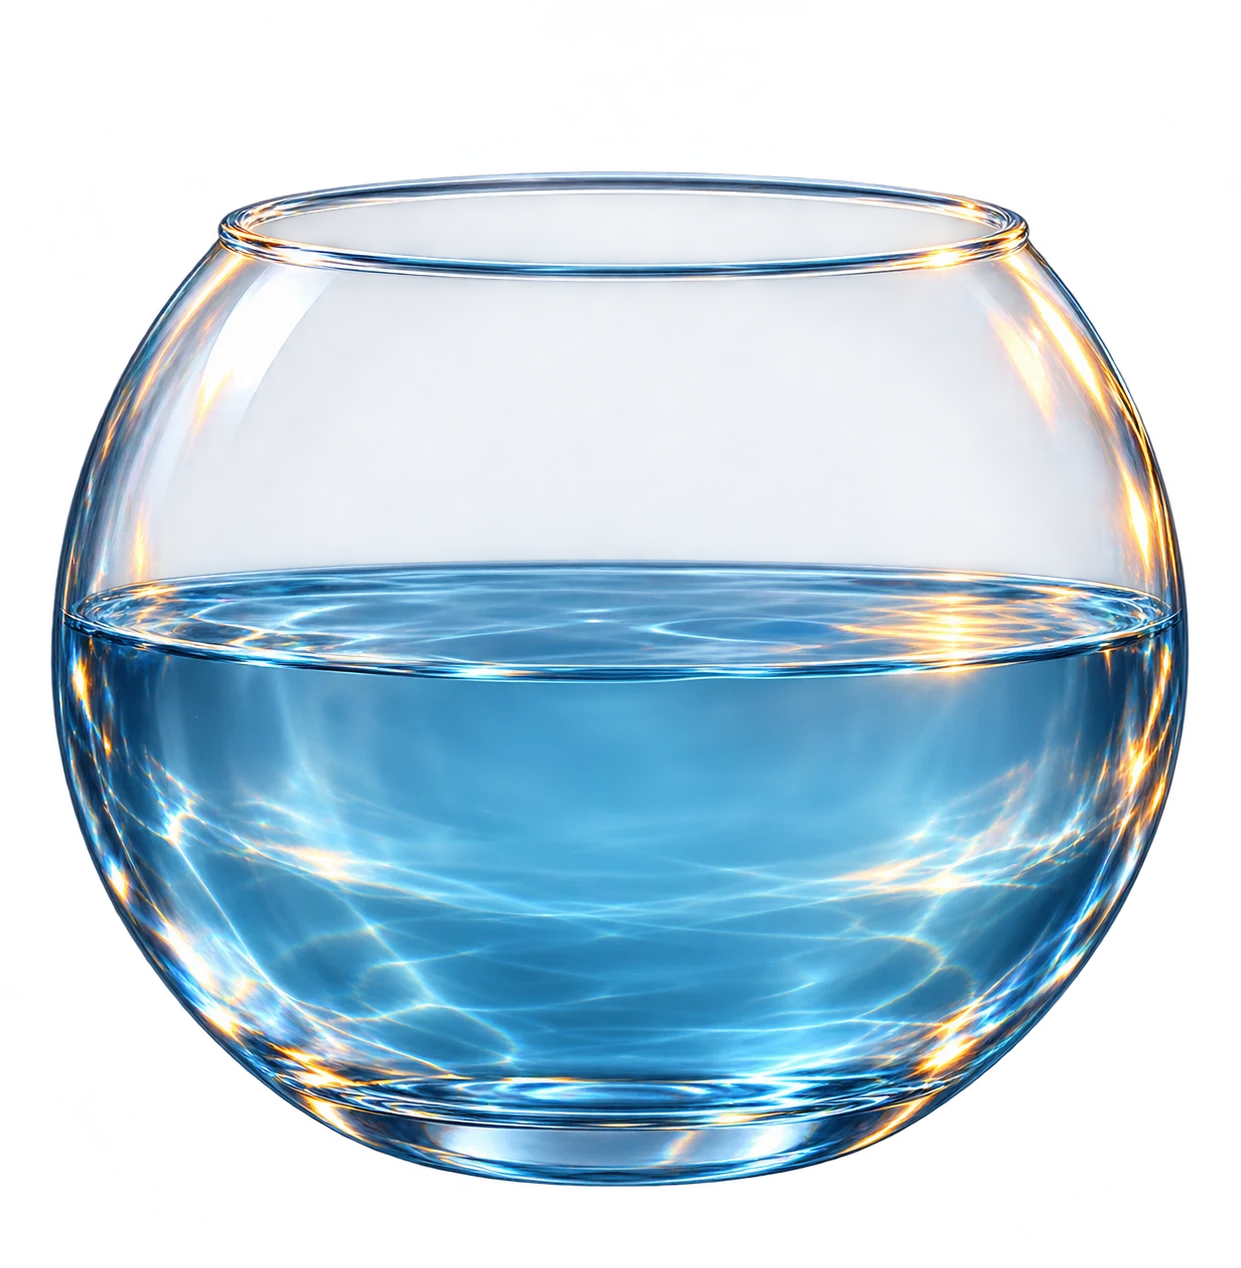
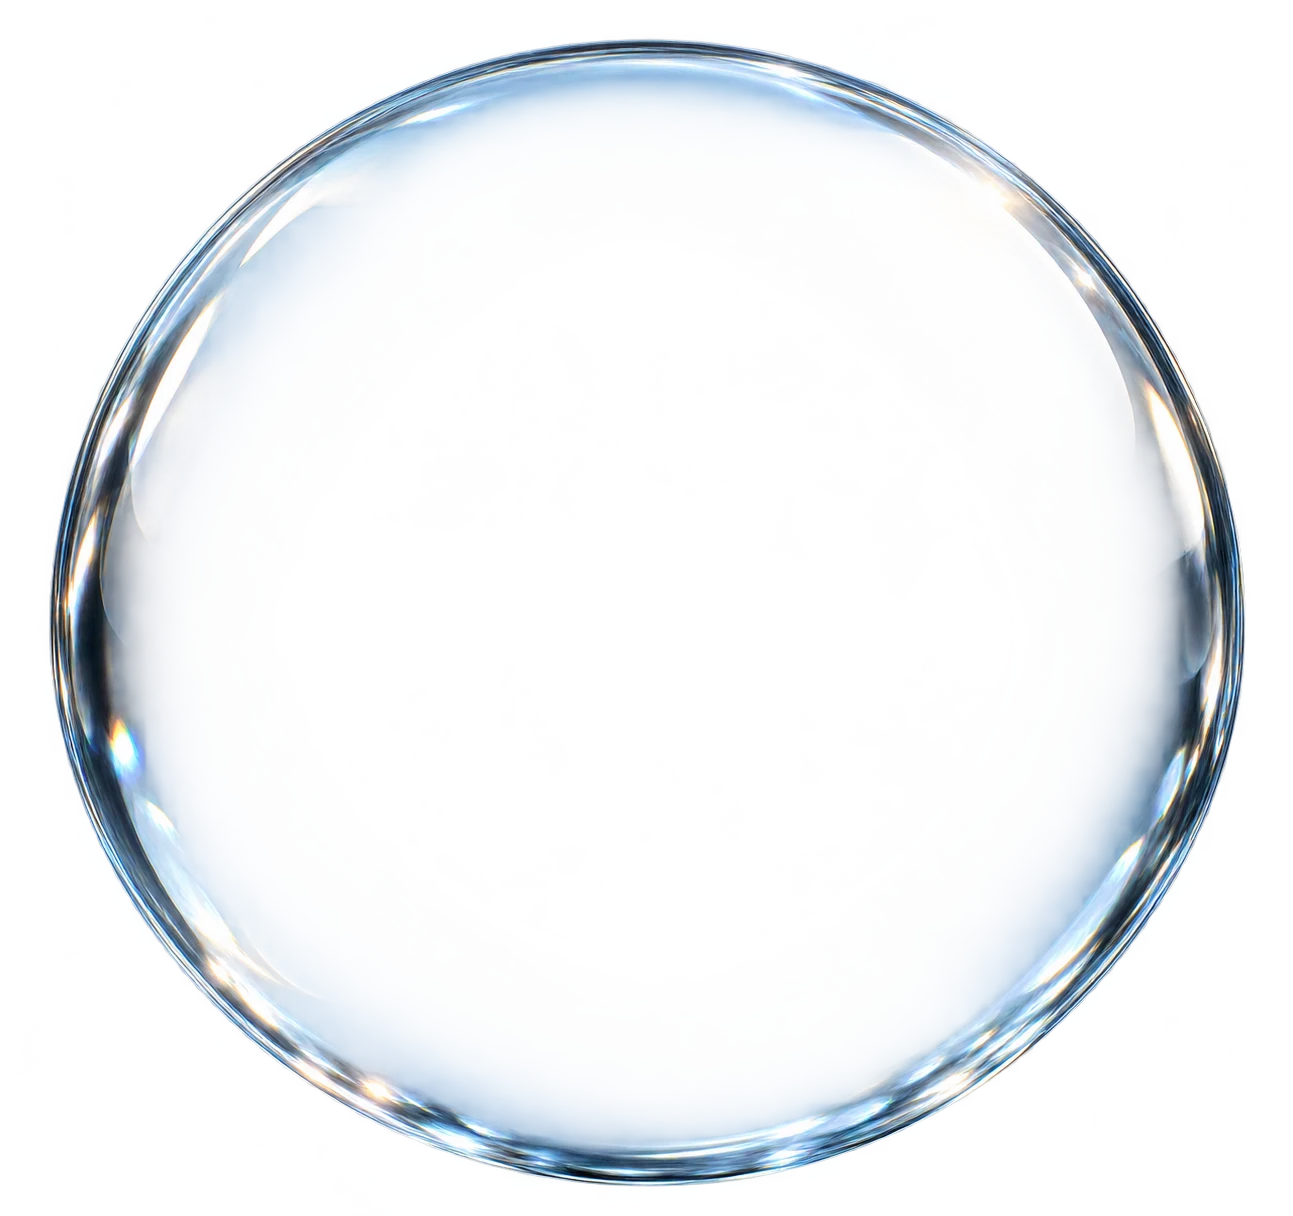
Refine Hydros orb and Today layout

diff --git a/src/hydros/screens/TodayPage.tsx b/src/hydros/screens/TodayPage.tsx
@@ -3,11 +3,10 @@ import type { Nav } from '../app/App';
 import { useDrinks, useSettings, useTraining } from '../app/state';
 import { dateLabel, greeting, sameDay, totalOz } from '../core/drinks';
 import { rangeForTraining } from '../data/training';
-import { DropIcon, GearIcon, MoonIcon, PlusIcon, SunIcon, WaveIcon } from '../app/icons';
-import { Brand } from '../app/ui';
+import { DropIcon, GearIcon, MoonIcon, SunIcon, WaveIcon } from '../app/icons';
+import { displayName } from '../../data/storage/preferences';
 import orbImage from '../../assets/images/scenes/hydros-orb.webp';
-
-const quote = 'The health of the body is the foundation of the good life.';
+import waterTexture from '../../assets/images/scenes/hydros-water.webp';
 
 export default function TodayPage({ nav }: { nav: Nav }) {
   const drinks = useDrinks() ?? [];
@@ -20,18 +19,18 @@ export default function TodayPage({ nav }: { nav: Nav }) {
   const goal = training?.runDay ? settings.goalOz + range.extra : settings.goalOz;
   const percent = Math.min(100, Math.round((amount / goal) * 100));
   const rangeText = hasData ? `${range.min} – ${range.max} oz` : 'Set amount';
+  const name = displayName();
   return (
     <div className="hydros-home">
       <section className="hydros-hero hydros-hero--today">
-        <div className="hydros-home-head"><Brand light /><button type="button" className="hydros-settings-button" aria-label="Settings" onClick={() => nav.go({ name: 'settings' })}><GearIcon size={21} /></button></div>
-        <div className="hydros-hero__words"><p>{greeting()}</p><h1>Drink with measure.</h1><span>{dateLabel()}</span></div>
-        <div className="hydros-orb" aria-label={hasData ? `${amount} ounces of ${range.min} to ${range.max} ounces range` : 'Set amount'}><img className="hydros-orb__image" src={orbImage} alt="" /><div className="hydros-orb__water" style={{ height: `${Math.max(13, percent)}%` }} /><strong>{amount}<small> oz</small></strong><span>{hasData ? (training?.runDay ? 'run day range' : 'of your usual range') : 'Set amount'}</span><em>{rangeText}</em></div>
+        <div className="hydros-home-head"><button type="button" className="hydros-settings-button" aria-label="Settings" onClick={() => nav.go({ name: 'settings' })}><GearIcon size={21} /></button></div>
+        <div className="hydros-hero__words"><p>{greeting()}{name ? ',' : ''}{name ? <strong>{name}</strong> : null}</p><span>{dateLabel()}</span></div>
+        <div className="hydros-orb" aria-label={hasData ? `${amount} ounces of ${range.min} to ${range.max} ounces range` : 'Set amount'}><div className="hydros-orb__water" style={{ height: `${percent}%` }}><img src={waterTexture} alt="" /></div><img className="hydros-orb__image" src={orbImage} alt="" /><strong>{amount}<small> oz</small></strong><span>{hasData ? (training?.runDay ? 'run day range' : 'of your usual range') : 'Set amount'}</span><em>{rangeText}</em></div>
       </section>
       <section className="hydros-content">
-        <div className="hydros-section-title"><h2>Today’s rhythm</h2><button type="button" onClick={() => nav.go({ name: 'add' })} aria-label="Add drink"><PlusIcon size={20} /></button></div>
+        <div className="hydros-section-title"><h2>Today’s rhythm</h2><button type="button" onClick={() => nav.go({ name: 'add' })} aria-label="Add drink">›</button></div>
         <div className="rhythm-card"><Rhythm icon={<SunIcon size={21} />} label="Morning" active={today.some((drink) => new Date(drink.loggedAt).getHours() < 12)} /><Rhythm icon={<WaveIcon size={22} />} label="Afternoon" active={today.some((drink) => { const hour = new Date(drink.loggedAt).getHours(); return hour >= 12 && hour < 18; })} /><Rhythm icon={<MoonIcon size={21} />} label="Evening" active={today.some((drink) => new Date(drink.loggedAt).getHours() >= 18)} /></div>
         <div className="hydros-note"><DropIcon size={24} /><span>{!hasData ? 'Set amount.' : training?.runDay ? `Run day · ${range.extra} oz added to your range.` : amount < range.min ? 'A little below your usual range.' : amount > range.max ? 'Above your usual range.' : 'Within your usual range.'}</span></div>
-        <blockquote className="hydros-quote">“{quote}”<cite>— Galen</cite></blockquote>
       </section>
     </div>
   );

diff --git a/src/hydros/styles/hydros.css b/src/hydros/styles/hydros.css
@@ -54,20 +54,21 @@ body:has(.hydros-shell) { min-height: 100dvh; }
 .hydros-brand__by { color: var(--text-soft); font-size: .75rem; }
 .hydros-brand--light .hydros-brand__by { color: rgba(244,252,255,.75); }
 
-.hydros-hero { position: relative; min-height: 590px; padding: calc(env(safe-area-inset-top) + 24px) 28px 38px; color: #f4fbfc; isolation: isolate; overflow: hidden; }
+.hydros-hero { position: relative; min-height: 520px; padding: calc(env(safe-area-inset-top) + 24px) 28px 24px; color: #f4fbfc; isolation: isolate; overflow: hidden; }
 .hydros-hero::before { content: ''; position: absolute; inset: 0; z-index: -2; background: linear-gradient(180deg, rgba(3,17,24,.35), rgba(3,17,24,.12) 40%, #061219 100%), url('../../assets/images/scenes/hydros-sunset.webp') center 35% / cover; transform: scale(1.03); }
-.hydros-hero::after { content: ''; position: absolute; inset: 0; z-index: -1; background: radial-gradient(circle at 50% 56%, rgba(71, 191, 227, .13), transparent 32%); pointer-events: none; }
+.hydros-hero::after { content: ''; position: absolute; inset: 0; z-index: -1; pointer-events: none; }
 .hydros-hero .hydros-brand { position: relative; }
-.hydros-home-head { display: flex; align-items: center; justify-content: space-between; }
+.hydros-home-head { position: absolute; top: calc(env(safe-area-inset-top) + 24px); right: 28px; z-index: 2; }
 .hydros-settings-button { display: grid; place-items: center; width: 42px; height: 42px; border: 1px solid rgba(220, 249, 255, .28); border-radius: 50%; background: rgba(3, 28, 39, .48); color: #dcf9ff; }
-.hydros-hero__words { margin-top: 58px; }
-.hydros-hero__words p { margin: 0; font-size: 1.12rem; color: rgba(242,250,252,.83); }
-.hydros-hero__words h1 { margin: 5px 0 3px; font: 400 2.15rem/1.03 var(--serif); letter-spacing: .01em; }
+.hydros-hero__words { margin-top: 72px; }
+.hydros-hero__words p { display: block; margin: 0; font-size: 1.12rem; line-height: 1.14; color: rgba(242,250,252,.83); }
+.hydros-hero__words p strong { display: block; color: #f4fbfc; font-size: 1.08em; font-weight: 400; }
 .hydros-hero__words span { color: rgba(231,247,251,.72); font-size: .84rem; }
-.hydros-orb { width: min(72vw, 320px); aspect-ratio: 1; position: absolute; left: 50%; bottom: 26px; transform: translateX(-50%); display: flex; flex-direction: column; align-items: center; justify-content: center; border: 1px solid rgba(195,242,255,.8); border-radius: 50%; overflow: hidden; background: rgba(4,48,67,.43); box-shadow: inset 0 0 24px rgba(203,247,255,.37), 0 15px 38px rgba(0,0,0,.36); }
-.hydros-orb__image { position: absolute; inset: 0; width: 100%; height: 100%; object-fit: cover; }
-.hydros-orb__water { position: absolute; bottom: 0; left: -5%; right: -5%; background: linear-gradient(180deg, rgba(44,186,230,.22), rgba(5,72,100,.55)); border-radius: 50% 50% 0 0 / 7% 7% 0 0; transition: height .25s ease; }
-.hydros-orb strong, .hydros-orb span, .hydros-orb em { position: relative; z-index: 1; }
+.hydros-orb { width: min(68vw, 276px); aspect-ratio: 1; position: absolute; left: 50%; bottom: 18px; transform: translateX(-50%); display: flex; flex-direction: column; align-items: center; justify-content: center; border-radius: 50%; overflow: hidden; background: transparent; box-shadow: 0 15px 38px rgba(0,0,0,.36); }
+.hydros-orb__image { position: absolute; z-index: 2; inset: 0; width: 100%; height: 100%; object-fit: cover; pointer-events: none; }
+.hydros-orb__water { position: absolute; z-index: 1; right: 0; bottom: 0; left: 0; overflow: hidden; border-radius: 0 0 50% 50% / 0 0 8% 8%; transition: height .25s ease; }
+.hydros-orb__water img { display: block; width: 100%; height: auto; min-height: 100%; object-fit: cover; object-position: bottom; }
+.hydros-orb strong, .hydros-orb span, .hydros-orb em { position: relative; z-index: 3; }
 .hydros-orb strong { font: 400 3.3rem/1 var(--serif); text-shadow: 0 2px 6px rgba(0,0,0,.44); }
 .hydros-orb strong small { font: 400 1.3rem var(--sans); }
 .hydros-orb span { margin-top: 2px; font-size: .72rem; letter-spacing: .03em; }

diff --git a/public/hydros/sw.js b/public/hydros/sw.js
@@ -1,4 +1,4 @@
-const CACHE = 'hydros-v4';
+const CACHE = 'hydros-v5';
 self.addEventListener('install', (event) => {
   event.waitUntil(caches.open(CACHE).then((cache) => cache.add('/hydros/')).then(() => self.skipWaiting()));
 });
